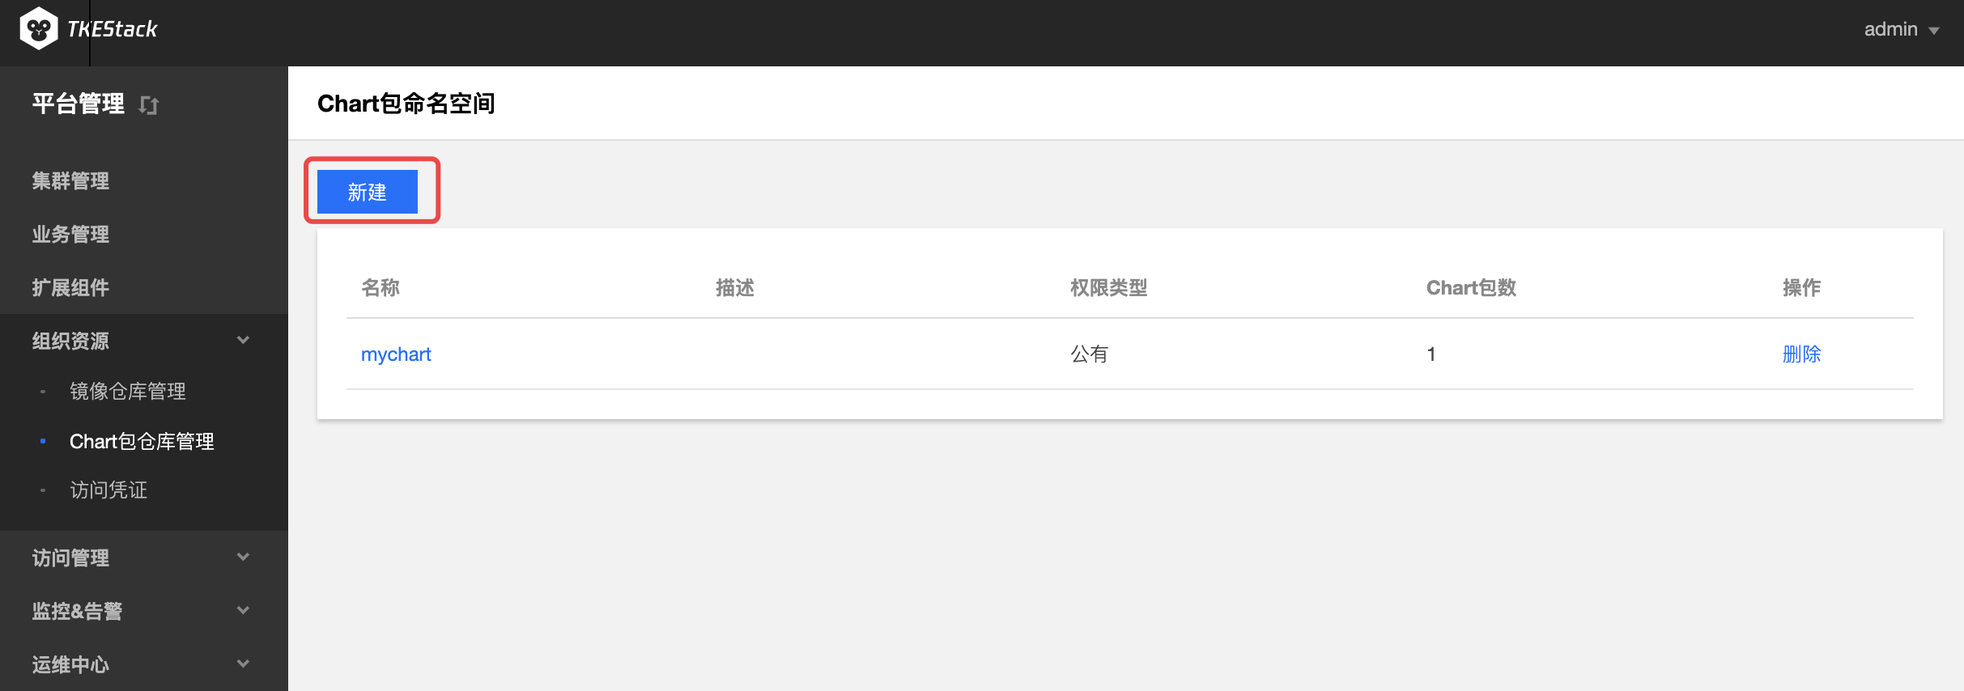
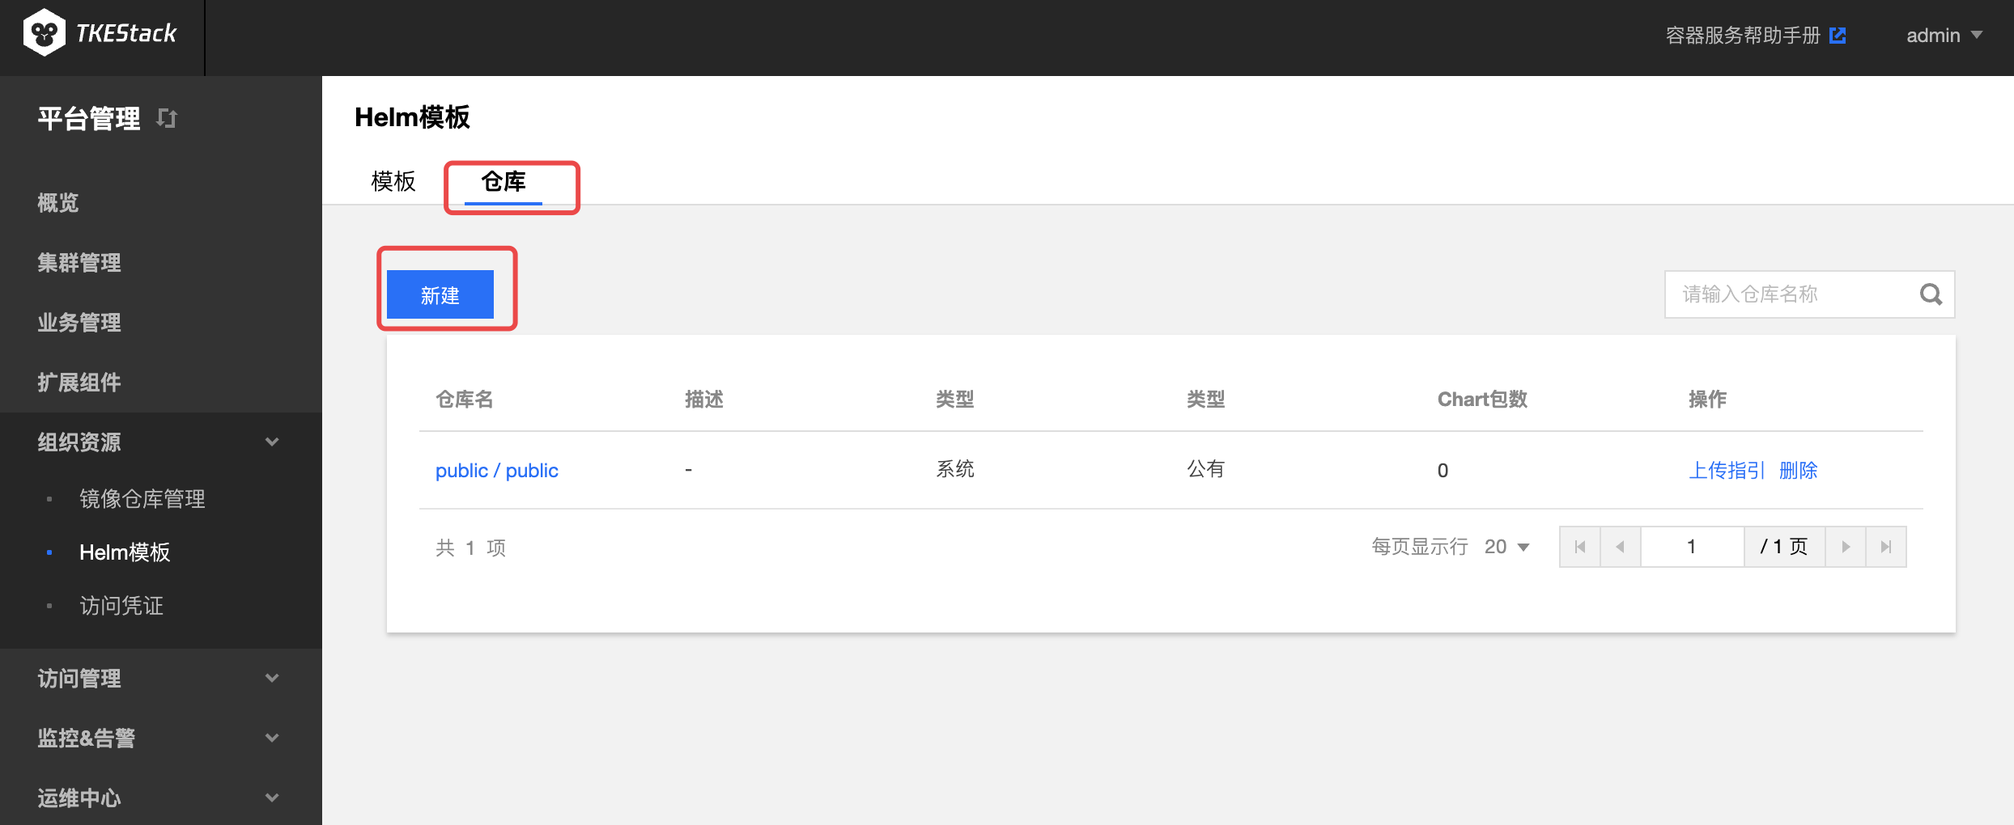
docs: update helm overview resource

diff --git a/docs/guide/zh-CN/products/platform/cluster.md b/docs/guide/zh-CN/products/platform/cluster.md
@@ -21,7 +21,7 @@ TKEStack还可以另外**新建独立集群**以及**导入已有集群**实现*
 3. 在“集群管理”页面中，单击【新建独立集群】。如下图所示：
    ![新建独立集群](../../../../images/createCluster.png)
 
-4. 在“新建独立集群”页面，填写集群的基本信息。新建的集群需满足[installation requirements](../../../../docs/guide/zh-CN/installation/installation-requirement.md)的需求，在满足需求之后，TKEStack的集群添加非常便利。如下图所示，只需填写【集群名称】、【目标机器】、【密码】，其他保持默认即可添加新的集群。
+4. 在“新建独立集群”页面，填写集群的基本信息。新建的集群需满足[installation requirements](../../../../docs/guide/zh-CN/installation/installation-requirement.md)的需求，在满足需求之后，TKEStack的集群添加非常便利。如下图所示，只需填写【集群名称】、【目标机器】、【SSH端口】（默认22）、【密码】，其他保持默认即可添加新的集群。
 
    > 注意：若【保存】按钮是灰色，单击附近空白处即可变蓝
 
@@ -33,7 +33,11 @@ TKEStack还可以另外**新建独立集群**以及**导入已有集群**实现*
 
 + **网卡名称：** 最长63个字符，只能包含小写字母、数字及分隔符(' - ')，且必须以小写字母开头，数字或小写字母结尾。（**建议使用默认值eth0**）
 
-+ **VIP** ：高可用 VIP 地址。（**按需使用**）
++ **高可用类型**（按需使用，可直接选择【**不使用**】）
+
+  - **不使用**：第一台 master 节点的IP地址作为 APIServer 地址
+  - **TKE提供**：用户只需提供可用的IP地址，TKE部署Keepalive，配置该IP为Master集群的VIP，以实现Global集群和控制台的高可用，此时该VIP和所有master节点IP地址都是APIserver地址。
+  - **使用已有**：对接配置好的外部 LB 实例，VIP绑定Master集群的80（tke控制台）、443（tke控制台）、6443（kube-apiserver端口）端口，同时确保该VIP有至少两个LB后端（Master节点），以避免LB单后端不可用风险。
 
 + **GPU**：选择是否安装 GPU 相关依赖。（**按需使用**）
 
@@ -81,8 +85,7 @@ TKEStack还可以另外**新建独立集群**以及**导入已有集群**实现*
    ![导入集群信息](../../../../images/importCluster-2.png)
 
 - **名称**： 被导入集群的名称，最长60字符
-- **API Server**： 
-  - 被导入集群的API server的域名或IP地址，必须是以https开头
+- **API Server**： 被导入集群的API server的域名或IP地址，必须是以https开头
 - **CertFile**： 输入被导入集群的cert 文件内容
 - **Token**： 输入被导入集群创建时的token值
 
@@ -113,8 +116,11 @@ TKEStack还可以另外**新建独立集群**以及**导入已有集群**实现*
    7. 集群凭证：在本地主机安装kubectl后，可用过用户名密码或集群CA证书登陆到集群。
    8. 超售比：Kubernetes对象在申请资源时，如果申请总额大于硬件配置，则无法申请，但是很多时候部分对象并没有占用这么多资源，因此可以设置超售比来扩大资源申请总额，以提高硬件资源利用率。
    9. 创建时间
+   10. 日志采集：这里可以开启/关闭集群的日志采集组件
 
 #### 节点管理
+
+##### 添加节点
 
 1. 登录 TKEStack。
 
@@ -138,34 +144,40 @@ TKEStack还可以另外**新建独立集群**以及**导入已有集群**实现*
    6. 密码：目标机器用户名为root的密码
    7. GPU：按需选择
 
-6. 点击蓝色【监控】按钮可监控节点，可以从Pod、CPU、内存、硬盘、网络等维度监控
+##### 节点监控
 
-7. 对节点的可以的操作如下图所示：
+点击上图中的蓝色【监控】按钮可监控节点，可以从Pod、CPU、内存、硬盘、网络等维度监控。
 
-   ![](../../../../images/nodecaozuo.png)
+##### 节点操作
 
-   1. 移出：仅针对worker节点，将节点移出集群
+对节点的可以的操作如下图所示：
 
-   2. 驱逐：节点驱逐后，将会把节点内的所有Pod（不包含DaemonSet管理的Pod）从节点中驱逐到集群内其他节点，并将节点设置为封锁状态。
+![](../../../../images/nodecaozuo.png)
 
-      > 注意：本地存储的Pod被驱逐后数据将丢失，请谨慎操作
+1. 移出：仅针对worker节点，将节点移出集群
 
-   3. 编辑标签：编辑节点标签
+2. 驱逐：节点驱逐后，将会把节点内的所有Pod（不包含DaemonSet管理的Pod）从节点中驱逐到集群内其他节点，并将节点设置为封锁状态。
 
-   4. 编辑Taint：编辑Taint后，新的pod不能被调度到该节点，但可以通过编辑pod的toleration使其可以调度到具有匹配的taint节点上。
+   > 注意：本地存储的Pod被驱逐后数据将丢失，请谨慎操作
 
-   5. 封锁：封锁节点后，将不接受新的Pod调度到该节点，需要手动取消封锁的节点。
+3. 编辑标签：编辑节点标签
 
-8. 点击其中一个节点名，例如上图中的【172.19.0.154】，可以看到该节点更多的信息，具体包括：
+4. 编辑Taint：编辑Taint后，新的pod不能被调度到该节点，但可以通过编辑pod的toleration使其可以调度到具有匹配的taint节点上。
 
-   ![](../../../../images/nodespod.png)
+5. 封锁：封锁节点后，将不接受新的Pod调度到该节点，需要手动取消封锁的节点。
 
-   1. Pod管理：可查看当前节点下的pod
-      1. 销毁重建：销毁该pod，重新新建该pod
-      2. 远程登录：登录到该pod的shell里
-   2. 事件：关于该节点上资源的事件
-   3. 详情：包括节点主机信息以及Kubernetes信息
-   4. YAML：节点的YAML文件
+##### 节点pod管理
+
+点击其中一个节点名，例如上图中的【172.19.0.154】，可以看到该节点更多的信息，具体包括：
+
+![](../../../../images/nodespod.png)
+
+1. Pod管理：可查看当前节点下的pod
+   1. 销毁重建：销毁该pod，重新新建该pod
+   2. 远程登录：登录到该pod的shell里
+2. 事件：关于该节点上资源的事件，资源事件只在ETCD里保存最近1小时内发生的事件，请尽快查阅。
+3. 详情：包括节点主机信息以及Kubernetes信息
+4. YAML：此处可以查看节点的YAML文件，但为了安全起见，无法修改。
 
 #### 其他操作
 

diff --git a/docs/guide/zh-CN/products/platform/resource.md b/docs/guide/zh-CN/products/platform/resource.md
@@ -37,34 +37,46 @@
       
   4. 根据指引内容，在物理节点上执行相应命令。如下图所示：
       ![镜像上传指引内容](../../../../images/镜像上传指引内容.png)
-## Chart 包仓库管理
-**这里用户可以在 Chart 包仓库里创建属于自己的 Chart 包命名空间，管理 Chart。**
+## Helm模板
+**这里用户可以在仓库里创建属于自己的命名空间，管理 Chart。**
 
-### 新建 Chart 包命名空间
+### 模板
+
+1. 所有模板：包含下列所有模板
+2. 个人模板：所有个人仓库类型的模板所
+3. 业务模板：所有业务仓库类型的模板所
+4. 公共模板：主要是开源模板
+
+### 仓库
+
   1. 登录 TKEStack。
-  2. 切换至 【平台管理】控制台，选择 【组织资源】->【 Chart 包仓库管理】，查看 “Chart 包命名空间”列表
+  2. 切换至 【平台管理】控制台，选择 【组织资源】->【 Helm模板】，点击【仓库】
   3. 点击【新建】按钮。如下图所示：
       ![新建Chart包命名空间](../../../../images/新建Chart包命名空间.png)
-  4. 在弹出的新建 ChartGroup 页面，填写 ChartGroup 信息，如下图所示：
-      ![新建ChartGroup窗口](../../../../images/新建ChartGroup窗口.png)
-     + **名称：** ChartGroup 名字，不超过63字符
-     + **描述：** ChartGroup 描述信息（可选）
-     + **权限类型：** 选择 ChartGroup 权限类型
-       + **公有：** 所有人均可访问该 ChartGroup 下的Chart
-       + **私有：** 个人用户C hartGroup
+    4. 在弹出的 新建仓库 页面，填写 仓库 信息，如下图所示：
+     ![新建ChartGroup窗口](../../../../images/新建ChartGroup窗口.png)
+     + **仓库名称：** 仓库名字，不超过6个字符
+     + **仓库类型**
+       + **个人**：默认当前登录用户
+         + **仓库权限：** 
+           + **公有：** 所有人均可访问该仓库下的Chart
+           + **私有：** 仅当前用户可以访问该仓库下的Chart
+       + **业务**：选择业务类型后需要选择指定业务
+         + **仓库权限：** 
+           + **公有：** 所有人均可访问该仓库下的Chart
+           + **私有：** 仅业务下的用户可以访问该仓库下的Chart
+     + **仓库描述：** 请输入仓库描述，不超过255个字符
   5. 单击【确认】按钮
- ### 删除 Chart 包命名空间
+ ### 删除仓库
   1. 登录 TKEStack。
-  2. 切换至 【平台管理】控制台，选择 【组织资源】-> 【Chart 包仓库管理】，查看 “Chart 包命名空间”列表。
+  2. 切换至 【平台管理】控制台，选择 【组织资源】-> 【 Helm模板】，点击【仓库】，查看 “helm模板仓库”列表。
   3. 点击列表最右侧【删除】按钮。如下图所示：
       ![Chart包命名空间删除按钮](../../../../images/Chart包命名空间删除按钮.png)
-### Chart上传
+### Chart上传指引
   1. 登录 TKEStack。
-  2. 切换至 【平台管理】控制台，选择 【组织资源】-> 【Chart 包仓库管理】，查看 “Chart 包命名空间”列表。
-  3. 点击列表中 Chart 包命名空间【名称】。如下图所示：
+  2. 切换至 【平台管理】控制台，选择 【组织资源】-> 【 Helm模板】，点击【仓库】，查看 “helm模板仓库”列表。
+  3. 点击列表最右侧【上传指引】按钮。如下图所示：
       ![Chart包命名空间名称](../../../../images/Chart包命名空间名称.png)
-  4. 点击命名空间的【Chart上传指引】按钮。如下图所示：
-      ![Chart上传指引](../../../../images/Chart上传指引.png)
   5. 根据指引内容，在物理节点上执行相应命令。如下图所示：
       ![Chart上传指引内容](../../../../images/Chart上传指引内容.png)
 
@@ -83,8 +95,14 @@
       * **凭证描述：** 描述当前凭证信息
       
       * **过期时间：** 填写过期时间，选择小时/分钟为单位
-      
   4. 单击【确认】按钮
+
+### 使用指引
+
+    1. 登录 TKEStack。
+    2. 切换至 【平台管理】控制台，选择 【组织资源】下的【访问凭证】，点击【新建】按钮。如下图所示：
+       ![新建按钮](../../../../images/useinfo.png)
+    3. 根据指引内容，在物理节点上执行相应命令。
 
 ### 停用/启用/删除访问凭证
   1. 登录 TKEStack。

diff --git a/docs/guide/zh-CN/products/business-control-pannel/helm/helm.md b/docs/guide/zh-CN/products/business-control-pannel/helm/helm.md
@@ -1,22 +1,48 @@
-# Helm应用
+# Helm模板
 
-## 概念
-**这里业务端用户可以管理通过 helm 创建的应用。**
+**这里用户可以在仓库里创建属于自己的命名空间，管理 Chart。**
 
-## 新建Helm应用 
+## 模板
+
+1. 所有模板：包含下列所有模板
+2. 个人模板：所有个人仓库类型的模板所
+3. 业务模板：所有业务仓库类型的模板所
+4. 公共模板：主要是开源模板
+
+## 仓库
+
   1. 登录 TKEStack。
-  2. 切换至 【业务管理】控制台，选择【 Helm应用】。
-  3. 选择相应【业务】和【namespace】，单击【新建】按钮。如下图所示：
-      ![新建Helm](../../../../../images/新建Helm.png)
-  4. 在“新建Helm应用”页面填写Helm应用信息。如下图所示：
-      ![新建Helm应用](../../../../../images/新建Helm应用.png)
-   + **应用名：** 输入应用名，1～63字符，只能包含小写字母、数字及分隔符("-")，且必须以小写字母开头，数字或小写字母结尾
-   + **命名空间：** 选择该应用运行的命名空间
-   + **Chart_Url：** 输入Chart 文件地址
-   + **类型：** 选择应用类型
-     + **公有：** 公有类型
-     + **私有：** 私有类型
-       + **用户名：** 私有用户名
-       + **密码：** 私有密码
-   + **Key-Value：** 通过Key-Value替换Chart包中默认配置。
-  5. 单击【完成】按钮。
+  2. 切换至 【平台管理】控制台，选择 【组织资源】->【 Helm模板】，点击【仓库】
+  3. 点击【新建】按钮。如下图所示：
+     ![新建Chart包命名空间](../../../../../images/新建Chart包命名空间.png)
+  4. 在弹出的 新建仓库 页面，填写 仓库 信息，如下图所示：
+     ![新建ChartGroup窗口](../../../../../images/新建ChartGroup窗口.png)
+     + **仓库名称：** 仓库名字，不超过6个字符
+     + **仓库类型**
+       + **个人**：默认当前登录用户
+         + **仓库权限：** 
+           + **公有：** 所有人均可访问该仓库下的Chart
+           + **私有：** 仅当前用户可以访问该仓库下的Chart
+       + **业务**：选择业务类型后需要选择指定业务
+         + **仓库权限：** 
+           + **公有：** 所有人均可访问该仓库下的Chart
+           + **私有：** 仅业务下的用户可以访问该仓库下的Chart
+     + **仓库描述：** 请输入仓库描述，不超过255个字符
+  5. 单击【确认】按钮
+
+### 删除仓库
+
+  1. 登录 TKEStack。
+  2. 切换至 【平台管理】控制台，选择 【组织资源】-> 【 Helm模板】，点击【仓库】，查看 “helm模板仓库”列表。
+  3. 点击列表最右侧【删除】按钮。如下图所示：
+     ![Chart包命名空间删除按钮](../../../../../images/Chart包命名空间删除按钮.png)
+
+### Chart上传指引
+
+  1. 登录 TKEStack。
+  2. 切换至 【平台管理】控制台，选择 【组织资源】-> 【 Helm模板】，点击【仓库】，查看 “helm模板仓库”列表。
+  3. 点击列表最右侧【上传指引】按钮。如下图所示：
+     ![Chart包命名空间名称](../../../../../images/Chart包命名空间名称.png)
+  4. 根据指引内容，在物理节点上执行相应命令。如下图所示：
+     ![Chart上传指引内容](../../../../../images/Chart上传指引内容.png)
+

diff --git a/docs/guide/zh-CN/products/platform/operation.md b/docs/guide/zh-CN/products/platform/operation.md
@@ -14,17 +14,16 @@
   1. 登录 TKEStack。
   2. 切换至【平台管理】控制台，选择【运维中心】->【 Helm 应用】。
   3. 选择相应【集群】，单击【新建】按钮。如下图所示：
-      ![新建Helm按钮](../../../../images/新建Helm按钮.png)
+      ![新建Helm按钮](../../../../images/platformhelm.png)
   4. 在“新建Helm应用”页面填写Helm应用信息。如下图所示：
       ![新建Helm应用](../../../../images/新建Helm应用.png)
-     + **应用名：** 输入应用名，1～63字符，只能包含小写字母、数字及分隔符("-")，且必须以小写字母开头，数字或小写字母结尾
-     + **Chart_Url：** 输入Chart 文件地址
-     + **类型：** 选择应用类型
-       + **公有：** 公有类型
-       + **私有：** 私有类型
-         + **用户名：** 私有用户名
-         + **密码：** 私有密码
-     + **Key-Value：** 通过新增变量替换Chart包中默认配置
+     + **应用名称：** 输入应用名，1～63字符，只能包含小写字母、数字及分隔符("-")，且必须以小写字母开头，数字或小写字母结尾
+     + **运行集群：** 选择应用所在集群
+     + **命名空间：** 选择应用所在集群的命名空间
+     + **类型：** 当前仅支持HelmV3
+     + **Chart：** 选择需要部署的chart
+     + **Chart版本：** 选择chart的版本
+     + **参数：** 更新时如果选择不同版本的Helm Chart，参数设置将被覆盖
   5. 单击【完成】按钮。
 
 
@@ -32,9 +31,7 @@
 ### 概念
 **这里用户可以管理各个集群的日志采集**
 
-> 前提：在【平台管理】控制台，【运维中心】->【日志组件】中**开启**需要采集日志集群的组件，当组件的状态为“运行中”时，表示可以新建日志采集规则。
-
-![打开日志采集组件](../../../../images/打开日志采集组件.png)
+> 前提：在【平台管理】控制台，【激情管理】->【你所需要采集日志的集群id】->【基本信息】中**开启**需要采集日志集群的组件，当组件的状态为“运行中”时，表示可以新建日志采集规则。
 
 ### 新建日志采集规则
   1. 登录 TKEStack。
@@ -55,9 +52,9 @@
            + **工作负载选项：** 选择某个namespace下的某种工作负载类型下的某个工作负载
            + **配置采集路径：** 选择某个容器下的某个文件路径
        + **节点文件路径：**  收集节点上某个路径下的文件内容
-             + **日志源：** 
-               + **收集路径：** 节点上日志收集路径
-               + **metadata：** key：value格式，收集的日志会带上metadata信息上报给消费端
+         * **日志源：** 
+           + **收集路径：** 节点上日志收集路径
+           + **metadata：** key：value格式，收集的日志会带上metadata信息上报给消费端
      + **消费端：** 选择日志消费端
        + **Kafka：** 
          + **访问地址：** kafka ip和端口
@@ -96,5 +93,7 @@
 
 ### 查看审计
   1. 登录 TKEStack。
+
   2. 切换至【平台管理】控制台，选择 【运维中心】->【审计记录】，查看审计列表。
-    ![](../../../../images/audit.png)
+
+     ![](../../../../../../../../Typora/images/audit.png)

diff --git a/docs/guide/zh-CN/catalog.md b/docs/guide/zh-CN/catalog.md
@@ -52,17 +52,18 @@
         * [StorageClass](products/business-control-pannel/application/storage/storave-class.md)
       * [日志](products/business-control-pannel/application/log.md)
       * [事件](products/business-control-pannel/application/events.md)
-    * [Helm 应用](products/business-control-pannel/helm/helm.md)
     * [业务管理](products/business-control-pannel/business-manage.md)
     * [组织资源](products/business-control-pannel/resource)
-      * [仓库管理](products/business-control-pannel/resource/registry.md)
+      * [镜像仓库管理](products/business-control-pannel/resource/registry.md)
+      * [Helm模板](products/business-control-pannel/helm/helm.md)
       * [访问凭证](products/business-control-pannel/resource/credentials.md)
     * [监控与告警](products/business-control-pannel/monitor-alert)
       * [设置告警](products/business-control-pannel/monitor-alert/alert.md)
       * [通知管理](products/business-control-pannel/monitor-alert/notifition.md)
     * [运维中心](products/business-control-pannel/operation)
-      * [日志采集](products/business-control-pannel/operation/logcollect.md)
-
+      * [Helm应用](products/business-control-pannel/operation/helm应用.md)
+    * [日志采集](products/business-control-pannel/operation/logcollect.md)
+  
 * [产品特色功能](features)
   * [Galaxy](features/galaxy.md)
   * [TAPP](features/tapp.md)

diff --git a/docs/guide/zh-CN/products/platform/overview.md b/docs/guide/zh-CN/products/platform/overview.md
@@ -5,9 +5,22 @@
 如下图所示，在【平台管理】页面点击【概览】，此处可以展现：
 
 1. 平台的资源概览
+   1. 集群：TKEStack管理的集群数量
+   2. 节点：TKEStack管理的集群下所有节点数量之和
+   3. 负载数：TKEStack管理的集群下所有负载数量，包括集群下所有的Deployment、DaemonSet、StatefulSet、TApp（如果按安装了TApp组件）数量之和
+   4. 业务：TKEStack平台已有业务总和
 2. 集群的资源状态
+   1. 节点：集群节点数量
+   2. Workload：集群Workload数量，包括集群下所有的Deployment、DaemonSet、StatefulSet、TApp（如果按安装了TApp组件）数量之和。
+   3. Master&ETCD：检查该组件状态，注意：如果导入一个云厂商的托管集群，是没有改组件的，因此这里应该显示异常，但不影响集群的使用。
 3. 快速入口
+   1. 创建独立集群
+   2. 创建角色
+   3. github-issue：**如有任何平台使用问题，欢迎提出Issue，我们会认真对待每个issue**
 4. 实用提示
+   1. 平台实验室：体验平台最新功能
+   2. 使用指引：通过创建业务，管理集群资源配额来使用平台
+5. 右上角可查看TKEStack的在线文档
 
 ![image-20200821171320826](../../../../images/overview.png)
 

diff --git a/docs/guide/zh-CN/products/business-control-pannel/operation/Helm应用.md b/docs/guide/zh-CN/products/business-control-pannel/operation/Helm应用.md
@@ -1,0 +1,18 @@
+# Helm应用
+
+### 新建Helm应用
+
+    1. 登录 TKEStack。
+    2. 切换至【业务管理】控制台，选择【运维中心】->【 Helm 应用】。
+    3. 选择相应【业务】和【命名空间】，单击【新建】按钮。如下图所示：
+       ![新建Helm按钮](../../../../../images/新建Helm按钮.png)
+    4. 在“新建Helm应用”页面填写Helm应用信息。如下图所示：
+       ![新建Helm应用](../../../../../images/新建Helm应用1.png)
+       + **应用名称：** 输入应用名，1～63字符，只能包含小写字母、数字及分隔符("-")，且必须以小写字母开头，数字或小写字母结尾
+       + **业务：** 选择应用所在业务
+       + **命名空间：** 选择应用所在集群的命名空间
+       + **类型：** 当前仅支持HelmV3
+       + **Chart：** 选择需要部署的chart
+       + **Chart版本：** 选择chart的版本
+       + **参数：** 更新时如果选择不同版本的Helm Chart，参数设置将被覆盖
+    5. 单击【完成】按钮。

diff --git a/docs/guide/zh-CN/products/platform/business.md b/docs/guide/zh-CN/products/platform/business.md
@@ -18,7 +18,7 @@
   - 【集群管理】中的集群，这里以`gobal`集群为例
   - 【填写资源限制】可以设置当前业务使用该集群的资源上限（可不限制）
   - 【新增集群】可以添加多个集群，此业务可以使用多个集群的资源（按需添加）
-- **上级业务**：支持多级业务管理，按需选择（可不选）
+- **上级业务**：支持多级业务管理，按需选择（可不选），子业务继承父业务的集群和资源限制。
 
 4. 单击最下方 【完成】 按钮即可创建业务。
 

diff --git a/docs/guide/zh-CN/products/platform/extender.md b/docs/guide/zh-CN/products/platform/extender.md
@@ -3,7 +3,7 @@
 ## 概念
 **这里用户可以管理集群扩展组件。**
 
-## 创建组件
+## 新建组件
   1. 登录 TKEStack。
 
   2. 切换至 【平台管理】控制台，选择【扩展组件】页面。
